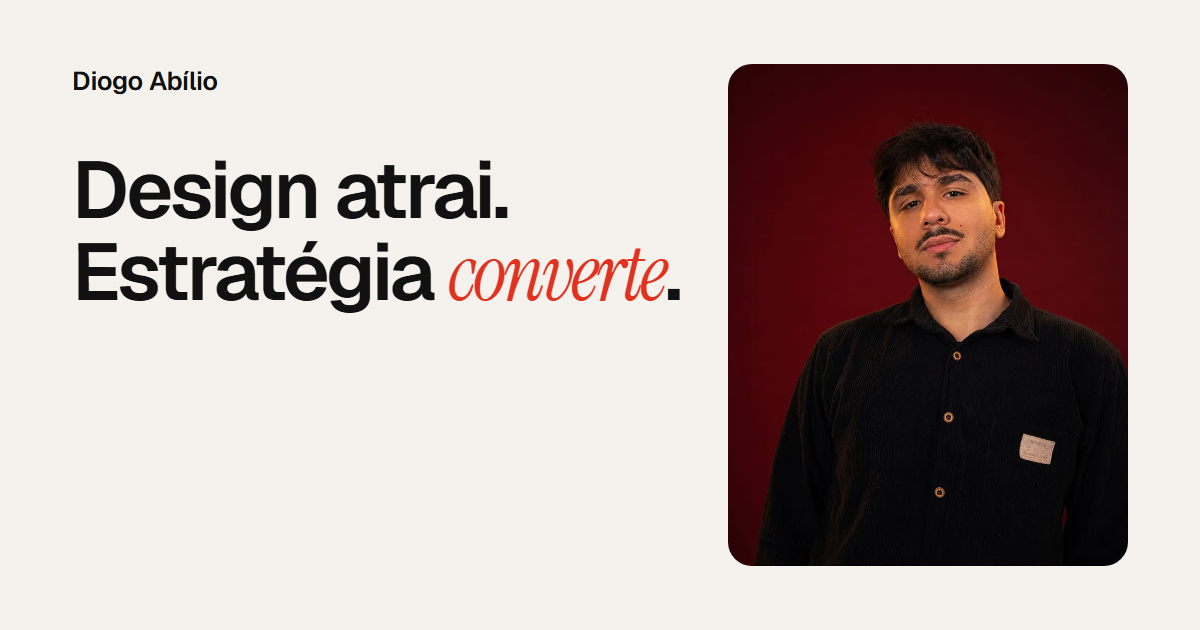
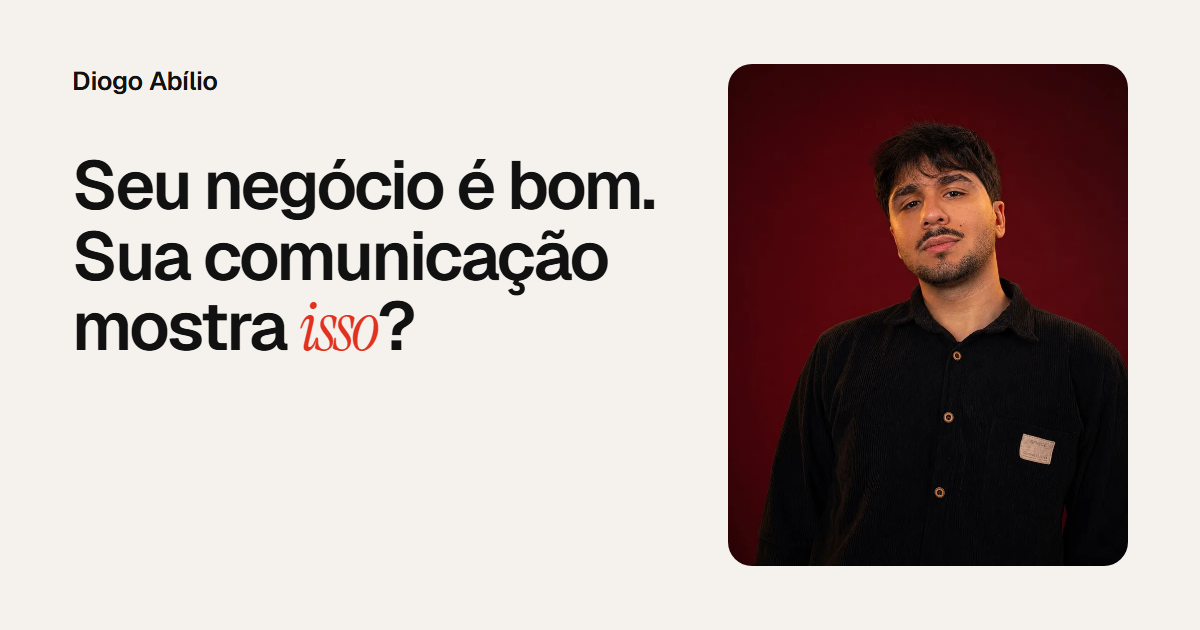
Hero headline: "Seu negócio é bom. Sua comunicação mostra isso?"
New headline with the accent on "isso". The second sentence is too long
for one line at a headline size, so the title sets in three lines
(sized from the first sentence by the column width), from 360px to
2560px. The home OG image uses the same three-line break.

Changed region(s): [[0.0617, 0.2413, 0.5858, 0.573]]

diff --git a/src/styles.css b/src/styles.css
@@ -253,9 +253,9 @@ ul, ol { margin: 0; padding: 0; list-style: none; }
 .hero h1 .wi { display: inline-block; animation: wordUp .9s var(--ease-out) both; animation-delay: calc(120ms + var(--i) * 60ms); }
 @keyframes wordUp { from { transform: translateY(110%); } to { transform: none; } }
 .hero-text { container-type: inline-size; }
-/* sized by the text column so each sentence keeps to one line */
+/* sized by the text column so the first sentence keeps to one line; the second balances over two */
 .hero-title {
-  font-size: clamp(36px, 12.4cqi, 92px);
+  font-size: clamp(34px, 10.9cqi, 84px);
   line-height: 1.0;
   letter-spacing: -0.04em;
 }
@@ -329,7 +329,7 @@ ul, ol { margin: 0; padding: 0; list-style: none; }
 }
 @media (max-width: 860px) and (max-height: 700px) {
   .hero-media { height: 230px; }
-  .hero .h1 { font-size: 40px; }
+  .hero .h1 { font-size: 34px; }
   .hero-sub { font-size: 16px; line-height: 1.5; }
 }
 
